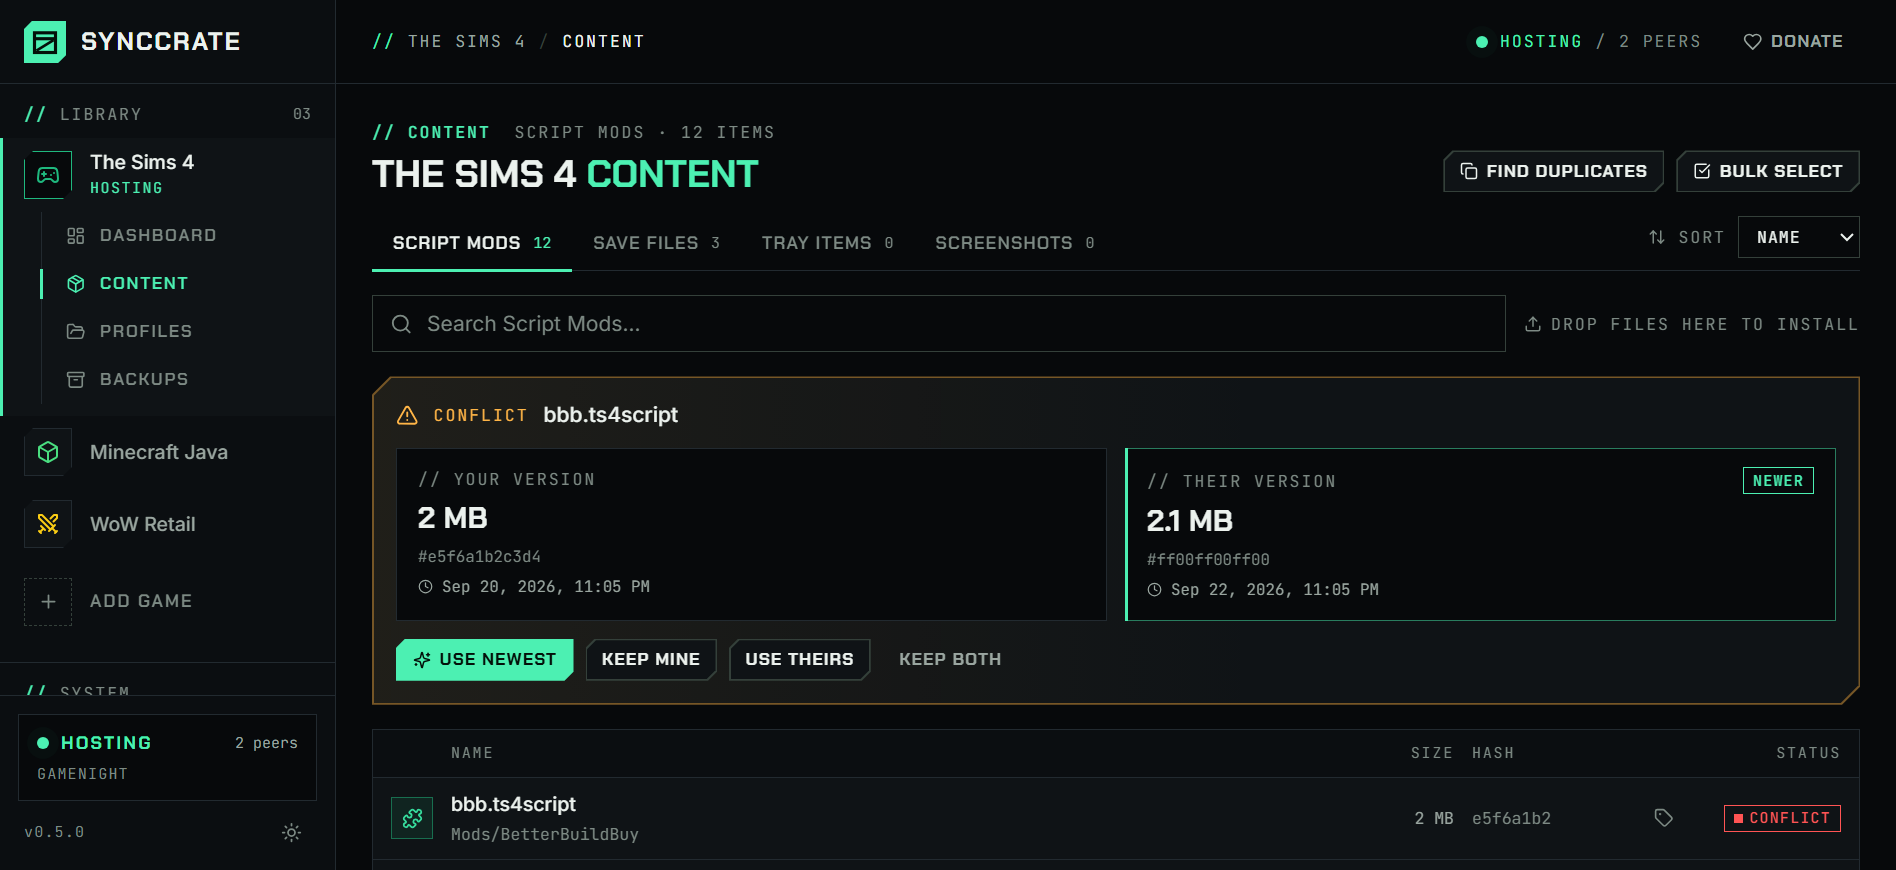
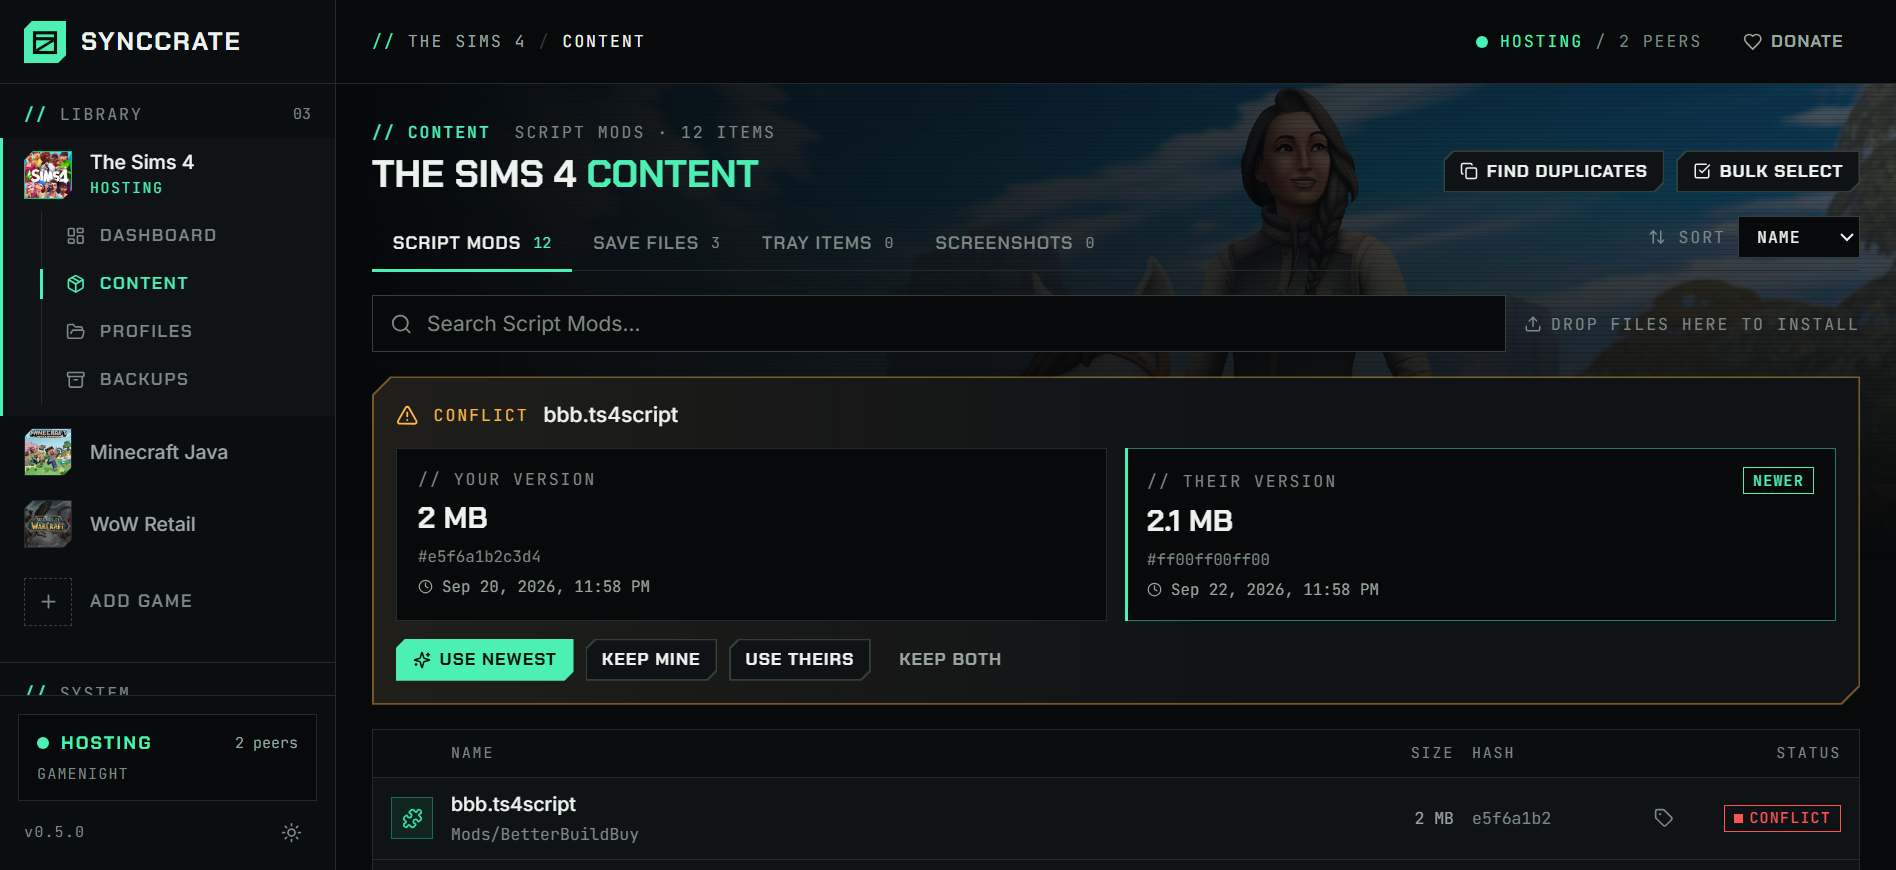
docs: fresh landing page screenshots, library and appearance tiles
- Retake dashboard, content and profiles with the redesign, mint palette and game art
- New browser.png and appearance.png with matching feature tiles
- Demo peers report the current version so screenshots show no mismatch warning

Changed region(s): [[0.4357, 0.0931, 1.0, 0.4345], [0.0, 0.4966, 0.0622, 0.6517], [0.0, 0.1552, 0.0622, 0.2483]]

diff --git a/docs/index.html b/docs/index.html
@@ -237,6 +237,8 @@
     .t-resume { grid-column: span 2; }
     .t-mods { grid-column: span 3; }
     .t-safe { grid-column: span 3; }
+    .t-library { grid-column: span 3; }
+    .t-look { grid-column: span 3; }
     .t-connect { grid-column: span 6; flex-direction: row; align-items: center; gap: 40px; }
     .t-sync h3 { font-size: clamp(1.8rem, 3.4vw, 2.8rem); }
     .diff { margin-top: auto; font-family: var(--mono); font-size: .82rem; background: var(--bg); border: 1px solid var(--line); padding: 18px; display: grid; grid-template-columns: minmax(0, 1fr); gap: 7px; overflow: hidden; }
@@ -370,7 +372,7 @@
       .t-sync, .t-connect { grid-column: span 2; }
       .t-sync { grid-row: auto; }
       .t-conflict, .t-resume { grid-column: span 1; }
-      .t-mods, .t-safe { grid-column: span 1; }
+      .t-mods, .t-safe, .t-library, .t-look { grid-column: span 1; }
     }
     @media (max-width: 900px) {
       .menu-btn { display: block; }
@@ -396,7 +398,7 @@
     @media (max-width: 640px) {
       .wrap { padding: 0 16px; }
       .bento { grid-template-columns: minmax(0, 1fr); }
-      .t-sync, .t-connect, .t-conflict, .t-resume, .t-mods, .t-safe { grid-column: auto; }
+      .t-sync, .t-connect, .t-conflict, .t-resume, .t-mods, .t-safe, .t-library, .t-look { grid-column: auto; }
       .t-connect { flex-direction: column; align-items: stretch; gap: 20px; }
       .t-connect .ticks { grid-template-columns: 1fr; flex-basis: auto; }
       .t-connect .c-copy { flex-basis: auto; }
@@ -466,7 +468,7 @@
           <div class="monitor brackets">
             <div class="monitor-bar" aria-hidden="true"><span class="label"><span class="live"></span>Session live</span><span>3 peers</span></div>
             <a href="screenshots/dashboard.png">
-              <img src="screenshots/dashboard.png" width="1898" height="870" alt="SyncCrate dashboard showing the session overview, the sync plan and connected peers">
+              <img src="screenshots/dashboard.png" width="1896" height="870" alt="SyncCrate dashboard showing the session overview, the sync plan and connected peers">
             </a>
           </div>
         </div>
@@ -561,7 +563,7 @@
               <li>12 tags, drag &amp; drop install, pack/DLC detection</li>
               <li>Duplicate finder</li>
             </ul>
-            <div class="shot"><img src="screenshots/content.png" width="1892" height="867" loading="lazy" alt="Content browser listing installed mods with tags and enable toggles"></div>
+            <div class="shot"><img src="screenshots/content.png" width="1896" height="870" loading="lazy" alt="Content browser listing installed mods with tags and enable toggles"></div>
           </article>
 
           <article class="tile t-safe cut reveal">
@@ -572,7 +574,29 @@
               <li>Share a setup as a <code>.synccrate-profile</code> on Discord</li>
               <li>Flags risky scripts (<code>.ts4script</code>, <code>.lua</code>, <code>.jar</code>, <code>.dll</code>)</li>
             </ul>
-            <div class="shot"><img src="screenshots/profiles.png" width="1897" height="867" loading="lazy" alt="Profiles screen with saved mod setups ready to share or restore"></div>
+            <div class="shot"><img src="screenshots/profiles.png" width="1896" height="870" loading="lazy" alt="Profiles screen with saved mod setups ready to share or restore"></div>
+          </article>
+
+          <article class="tile t-library cut reveal">
+            <p class="label"><b>Library</b> Every game, real art</p>
+            <h3>Find your game in seconds.</h3>
+            <ul class="ticks">
+              <li>Official box art for all 100 games</li>
+              <li>Filter by genre, installed or in library</li>
+              <li>Grid or list view, set your own cover</li>
+            </ul>
+            <div class="shot"><img src="screenshots/browser.png" width="1896" height="870" loading="lazy" alt="Game browser with official box art, genre filters and status tabs"></div>
+          </article>
+
+          <article class="tile t-look cut reveal">
+            <p class="label"><b>Appearance</b> Make it yours</p>
+            <h3>Your colors, your layout.</h3>
+            <ul class="ticks">
+              <li>Pick any accent color, or match each game</li>
+              <li>Dark, light or follow Windows</li>
+              <li>UI scale, compact mode, calm mode</li>
+            </ul>
+            <div class="shot"><img src="screenshots/appearance.png" width="1896" height="870" loading="lazy" alt="Appearance settings with accent color swatches and a live preview"></div>
           </article>
 
           <article class="tile t-connect cut reveal">

diff --git a/synccrate/src/lib/demoData.ts b/synccrate/src/lib/demoData.ts
@@ -1,3 +1,4 @@
+import pkg from "../../package.json";
 import type {
   FileManifest,
   SessionStatus,
@@ -340,7 +341,7 @@ export const demoSession: SessionStatus = {
       ip: "192.168.1.42",
       port: 9847,
       mod_count: 23,
-      version: "0.3.0",
+      version: pkg.version,
       pin_required: false,
     },
     {
@@ -349,7 +350,7 @@ export const demoSession: SessionStatus = {
       ip: "192.168.1.108",
       port: 9847,
       mod_count: 15,
-      version: "0.3.0",
+      version: pkg.version,
       pin_required: false,
     },
   ],
@@ -439,7 +440,7 @@ export const demoDiscoveredPeers: PeerInfo[] = [
     ip: "192.168.1.10",
     port: 9847,
     mod_count: 34,
-    version: "0.3.0",
+    version: pkg.version,
     pin_required: true,
   },
   {
@@ -448,7 +449,7 @@ export const demoDiscoveredPeers: PeerInfo[] = [
     ip: "192.168.1.22",
     port: 9847,
     mod_count: 12,
-    version: "0.3.0",
+    version: pkg.version,
     pin_required: false,
   },
 ];
